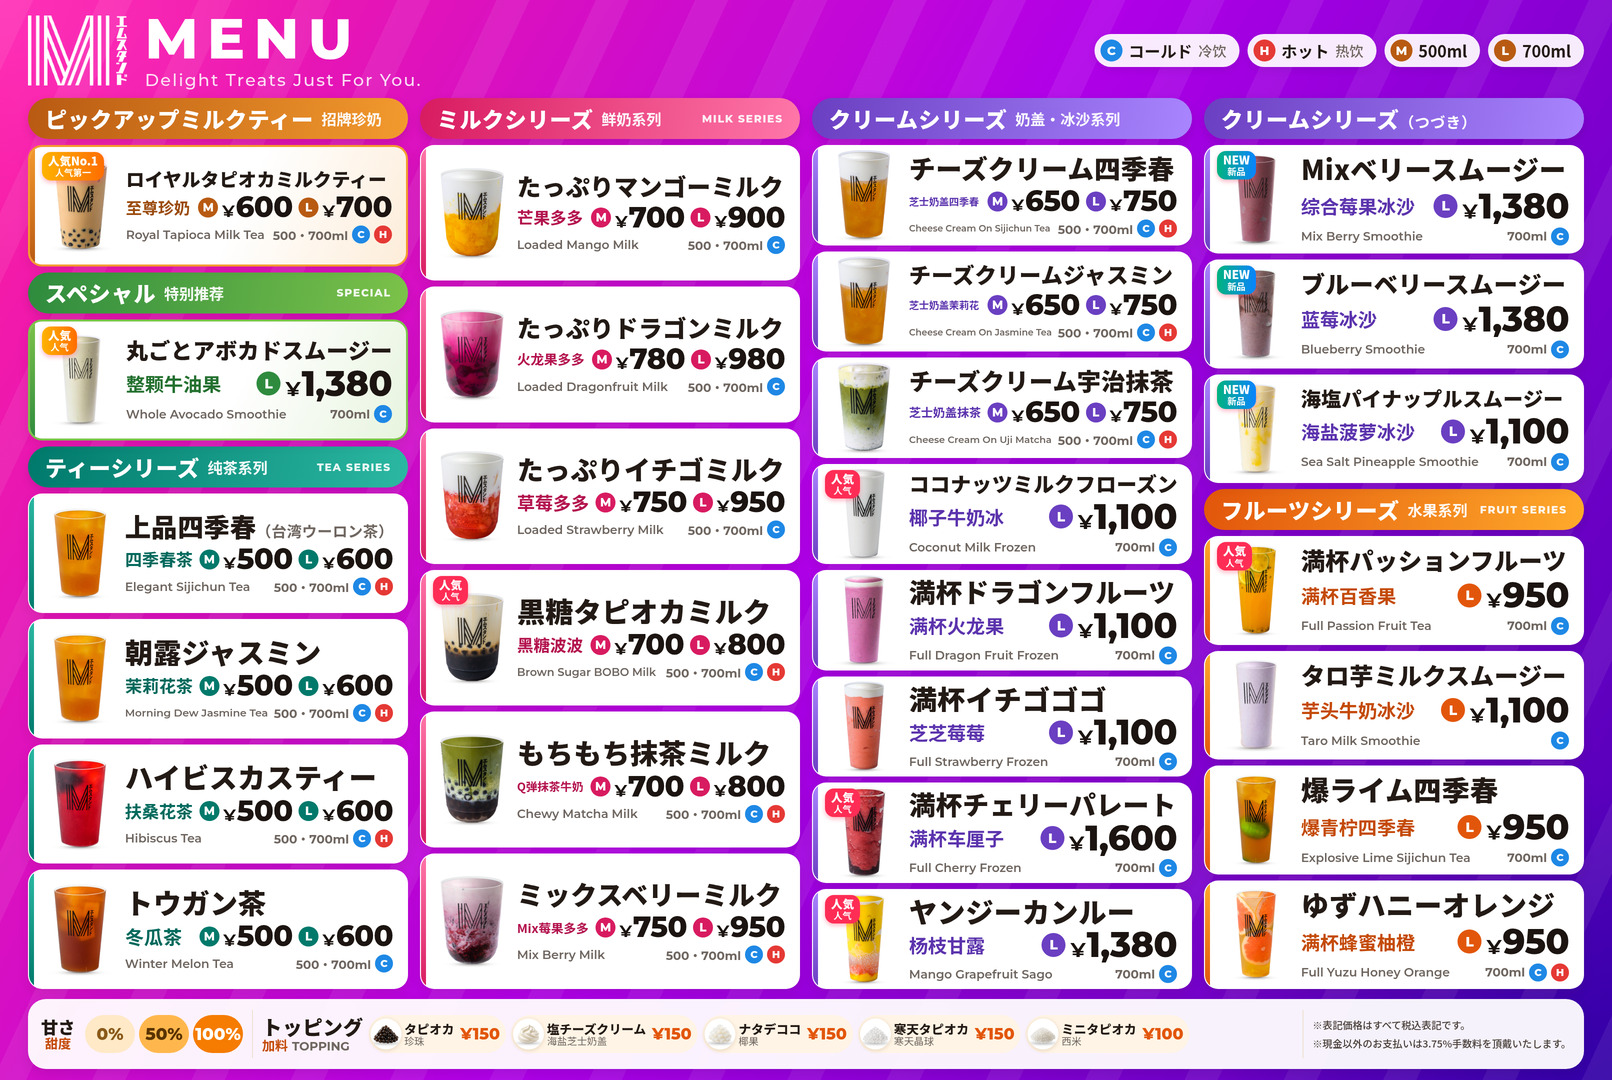
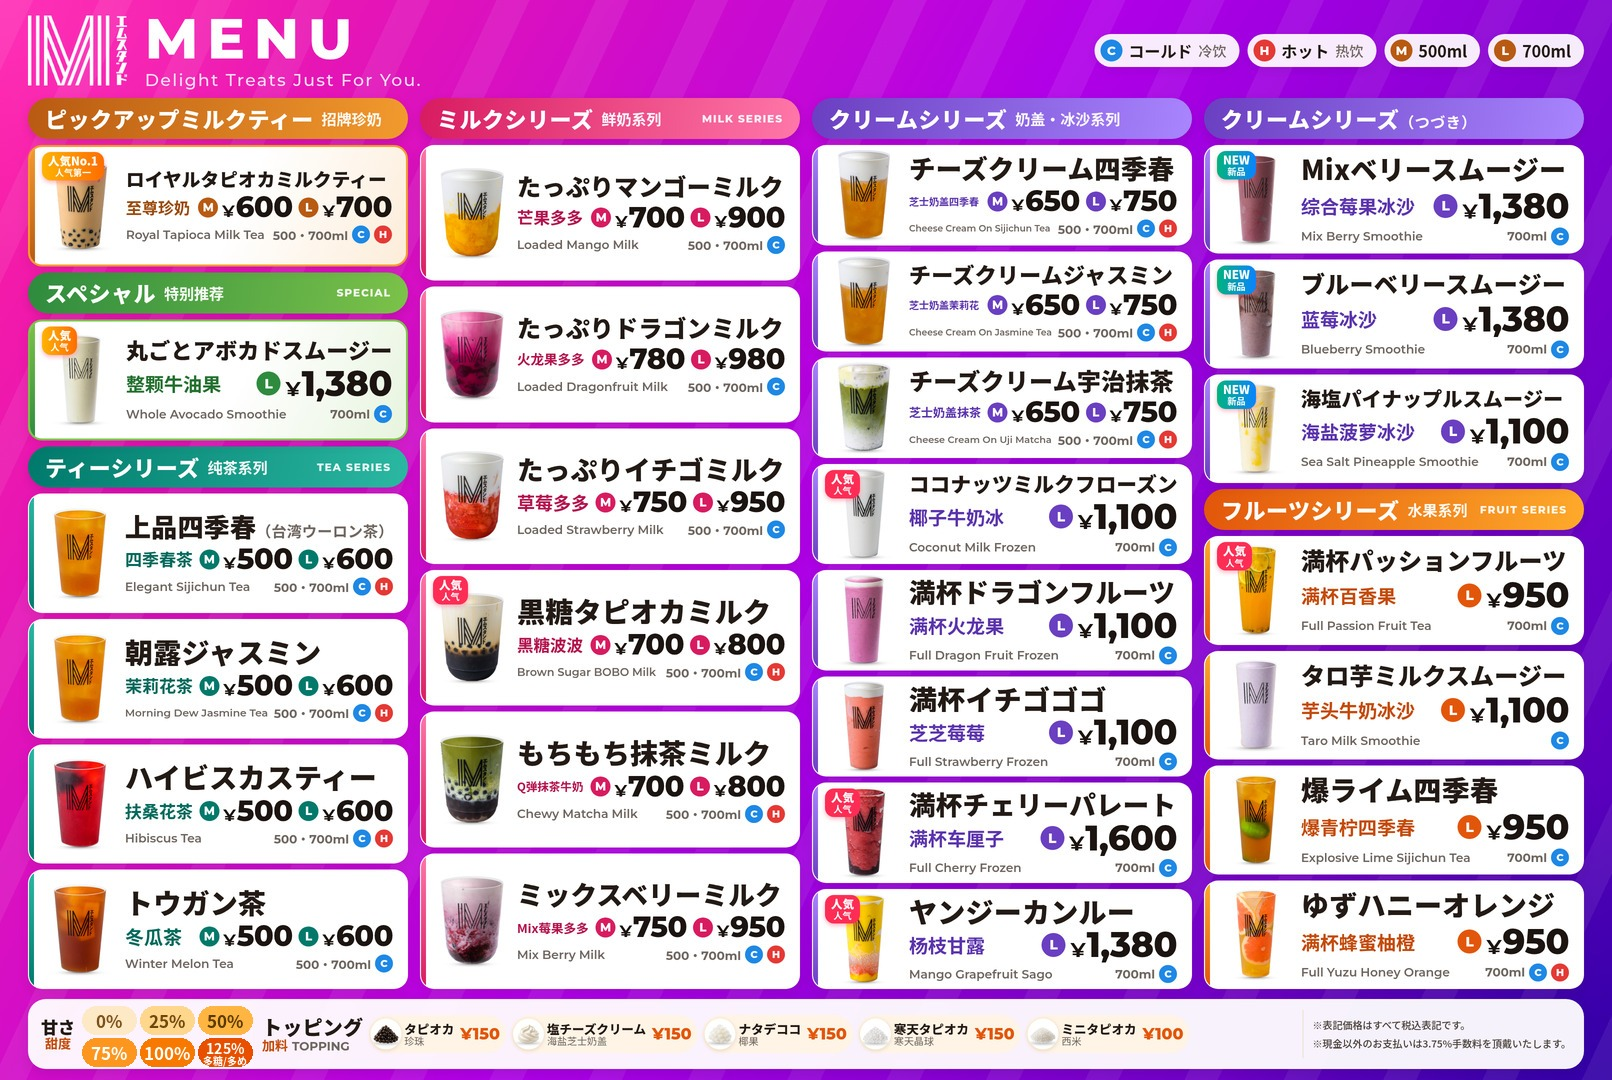
critter intro v6 (2-3 products/trip, 3-line intros, pop/hop/sparkles; critter.js v=6) + menu sweetness 0-125% in 25% steps (menu.jpg v=7)

diff --git a/public/critter.js b/public/critter.js
@@ -73,34 +73,34 @@ window.MSCritter={svg:svg,keys:A.concat(['bat']),pose:function(r,key,f){var o=HI
 
 /* ---- product intro: walk to a menu card and say something ---- */
 var PI=[
-[/^ロイヤルタピオカミルクティー/,'至尊珍奶','人气No.1，珍珠Q弹～'],
-[/アボカドスムージー/,'整颗牛油果','牛油果每天现开的哦～'],
-[/^上品四季春/,'四季春茶','清香回甘，超解腻～'],
-[/朝露ジャスミン/,'茉莉花茶','一口满满茉莉花香～'],
-[/ハイビスカス/,'扶桑花茶','酸酸甜甜，颜色超美～'],
-[/トウガン/,'冬瓜茶','古早味冬瓜茶，消暑～'],
-[/マンゴーミルク/,'芒果多多','满满芒果果肉哦～'],
-[/ドラゴンミルク/,'火龙果多多','粉粉的火龙果超好拍～'],
-[/いちごミルク|イチゴミルク/,'草莓多多','草莓配鲜奶，甜甜的～'],
-[/黒糖/,'黑糖波波','黑糖珍珠，浓浓焦香～'],
-[/抹茶ミルク/,'抹茶牛奶','Q弹球配抹茶，好好嚼～'],
-[/Mixベリーミルク|ミックスベリーミルク/,'莓莓多多','好几种莓果一起喝～'],
-[/チーズクリーム四季春/,'芝士四季春','咸香奶盖配清茶～'],
-[/チーズクリームジャスミン/,'芝士茉莉','奶盖绵绵配茉莉～'],
-[/チーズクリーム宇治抹茶/,'芝士抹茶','宇治抹茶+奶盖，绝配～'],
-[/ココナッツ/,'椰子牛奶冰','椰香满满，冰冰凉凉～'],
-[/満杯ドラゴンフルーツ/,'满杯火龙果','满满一杯火龙果～'],
-[/満杯いちごスムージー|イチゴゴゴ/,'芝芝莓莓','满杯草莓，酸甜刚好～'],
-[/チェリー/,'满杯车厘子','车厘子控必点哦～'],
-[/ヤンジー|楊枝甘露|杨枝甘露/,'杨枝甘露','芒果西柚，港式经典～'],
-[/Mixベリースムージー/,'综合莓果冰沙','新品！莓果冰沙～'],
-[/ブルーベリー/,'蓝莓冰沙','新品！蓝莓酸酸甜甜～'],
-[/パイナップル/,'海盐菠萝冰沙','新品！海盐配菠萝～'],
-[/パッション/,'满杯百香果','百香果香到冒泡～'],
-[/タロ芋/,'芋头牛奶冰沙','芋泥控快来～'],
-[/爆ライム/,'爆青柠四季春','超清爽，解腻必喝～'],
-[/柚子|ゆず/,'满杯蜂蜜柚橙','柚子蜂蜜，冷热都好喝～']];
-var GEN='这杯也超好喝哦～';
+[/^ロイヤルタピオカミルクティー/,'至尊珍奶','店里人气No.1','珍珠Q弹有嚼劲','奶茶香浓不腻'],
+[/アボカドスムージー/,'整颗牛油果','用整颗牛油果做','口感绵密顺滑','喝完超满足～'],
+[/^上品四季春/,'四季春茶','清新的乌龙茶香','入口回甘','配炸鸡超解腻～'],
+[/朝露ジャスミン/,'茉莉花茶','一口满满茉莉香','清爽不苦涩','想清淡就选它～'],
+[/ハイビスカス/,'扶桑花茶','酸酸甜甜的花茶','颜色红红超好看','拍照很出片哦～'],
+[/トウガン/,'冬瓜茶','古早味冬瓜茶','甜甜的很顺口','小时候的味道～'],
+[/マンゴーミルク/,'芒果多多','满满芒果果肉','配上香浓牛奶','芒果控必点～'],
+[/ドラゴンミルク/,'火龙果多多','火龙果配牛奶','粉粉的颜色','超好拍超可爱～'],
+[/いちごミルク|イチゴミルク/,'草莓多多','草莓配牛奶','酸酸甜甜','少女心满满～'],
+[/黒糖/,'黑糖波波','黑糖珍珠','浓浓焦糖香','搅一搅再喝哦～'],
+[/抹茶ミルク/,'抹茶牛奶','抹茶配牛奶','微苦又香甜','抹茶控快来～'],
+[/Mixベリーミルク|ミックスベリーミルク/,'莓莓多多','好几种莓果','配上牛奶','酸甜又顺滑～'],
+[/チーズクリーム四季春/,'芝士四季春','绵密芝士奶盖','配清香四季春','先喝一口奶盖～'],
+[/チーズクリームジャスミン/,'芝士茉莉','绵绵芝士奶盖','配茉莉花香','清爽又浓郁～'],
+[/チーズクリーム宇治抹茶/,'芝士抹茶','宇治抹茶','加咸香芝士奶盖','抹茶控绝配～'],
+[/ココナッツ/,'椰子牛奶冰','椰香满满','冰冰凉凉','一口好清爽～'],
+[/満杯ドラゴンフルーツ/,'满杯火龙果','满满一杯火龙果','颜色超漂亮','清爽解渴～'],
+[/満杯いちごスムージー|イチゴゴゴ/,'芝芝莓莓','满杯草莓','酸甜刚刚好','草莓控必点～'],
+[/チェリー/,'满杯车厘子','车厘子满满','果香浓郁','车厘子控冲～'],
+[/ヤンジー|楊枝甘露|杨枝甘露/,'杨枝甘露','芒果加西柚','港式经典甜品','一口好幸福～'],
+[/Mixベリースムージー/,'综合莓果冰沙','新品上市！','多种莓果打成冰沙','酸甜冰爽～'],
+[/ブルーベリー/,'蓝莓冰沙','新品上市！','蓝莓酸酸甜甜','冰沙口感超爽～'],
+[/パイナップル/,'海盐菠萝冰沙','新品上市！','海盐配菠萝','咸甜好特别～'],
+[/パッション/,'满杯百香果','百香果香到冒泡','酸甜开胃','超级清爽～'],
+[/タロ芋/,'芋头牛奶冰沙','绵绵的芋头','配上牛奶','芋泥控快来～'],
+[/爆ライム/,'爆青柠四季春','满满青柠','配四季春茶','清爽解腻～'],
+[/柚子|ゆず/,'满杯蜂蜜柚橙','柚子加橙子','蜂蜜甜甜的','冷热都能点哦～']];
+var GEN=['这杯也超好喝','欢迎来尝尝哦～'];
 function cards(){var R=[],i,j,mp=window.SOMAP,m=document.getElementById('menu');if(!m)m=document.querySelector('img[src*="menu"]');
  if(!m)return R;var mr=m.getBoundingClientRect();if(mr.width<50)return R;
  if(!mp||!mp.length){mp=[];for(i=0;i<PI.length;i++)mp.push({re:PI[i][0],x:5+(i%6)*15,y:10+Math.floor(i/6)*20,w:12,h:16})}
@@ -109,19 +109,23 @@ function cards(){var R=[],i,j,mp=window.SOMAP,m=document.getElementById('menu');
  for(j=0;j<mp.length;j++){var b=mp[j];if(so.indexOf(b.x+'%|'+b.y+'%')>=0)continue;
   var t=null;for(i=0;i<PI.length;i++)if(b.re&&PI[i][0].source===b.re.source){t=PI[i];break}
   if(!t)for(i=0;i<PI.length;i++)if(b.re&&b.re.test&&b.re.test(PI[i][1])){t=PI[i];break}
-  R.push({x:mr.left+mr.width*b.x/100,y:mr.top+mr.height*b.y/100,w:mr.width*b.w/100,h:mr.height*b.h/100,n:t?t[1]:'',s:t?t[2]:GEN,mw:mr.width})}
+  R.push({x:mr.left+mr.width*b.x/100,y:mr.top+mr.height*b.y/100,w:mr.width*b.w/100,h:mr.height*b.h/100,n:t?t[1]:'',s:t?t.slice(2):GEN,mw:mr.width})}
  return R}
 window.MSCritterCards=cards;
 if(/[?&]critter=off/.test(qs))return;
 var st=document.createElement('style');
 st.textContent='#critter{position:fixed;left:0;top:0;z-index:9000;pointer-events:none;will-change:transform;-webkit-transform:translate3d(-99px,0,0);transform:translate3d(-99px,0,0)}'+
-'#cbub{position:fixed;z-index:9001;pointer-events:none;background:#fff;color:#5b2a86;border:4px solid #ff6fae;border-radius:999px;padding:.12em .55em;font-family:sans-serif;font-weight:700;line-height:1.25;white-space:nowrap;box-shadow:0 6px 18px rgba(0,0,0,.35);opacity:0;-webkit-transition:opacity .3s;transition:opacity .3s}#cbub b{color:#ff3d8b;margin-right:.3em}#cbub:after{content:"";position:absolute;left:28px;border:10px solid transparent}#cbub.up:after{top:100%;border-top-color:#ff6fae}#cbub.dn:after{bottom:100%;border-bottom-color:#ff6fae}'+
+'#cbub{position:fixed;z-index:9001;pointer-events:none;background:#fff;color:#5b2a86;border:4px solid #ff6fae;border-radius:.8em;padding:.25em .6em .3em;font-family:sans-serif;font-weight:700;line-height:1.3;white-space:nowrap;box-shadow:0 6px 18px rgba(0,0,0,.35);opacity:0;-webkit-transform-origin:30px 100%;transform-origin:30px 100%;-webkit-transition:opacity .4s;transition:opacity .4s}#cbub.dn{-webkit-transform-origin:30px 0;transform-origin:30px 0}#cbub b{display:block;color:#ff3d8b;font-size:1.08em}#cbub span{display:block;opacity:0}#cbub span.on{opacity:1;-webkit-animation:cln .45s ease-out;animation:cln .45s ease-out}#cbub.pop{-webkit-animation:cpop .5s cubic-bezier(.3,1.6,.5,1);animation:cpop .5s cubic-bezier(.3,1.6,.5,1)}#cbub:after{content:"";position:absolute;left:28px;border:10px solid transparent}#cbub.up:after{top:100%;border-top-color:#ff6fae}#cbub.dn:after{bottom:100%;border-bottom-color:#ff6fae}'+
+'@-webkit-keyframes cpop{0%{-webkit-transform:scale(.2);opacity:0}60%{-webkit-transform:scale(1.12);opacity:1}100%{-webkit-transform:scale(1)}}@keyframes cpop{0%{transform:scale(.2);opacity:0}60%{transform:scale(1.12);opacity:1}100%{transform:scale(1)}}'+
+'@-webkit-keyframes cln{0%{opacity:0;-webkit-transform:translate3d(0,.5em,0)}100%{opacity:1;-webkit-transform:translate3d(0,0,0)}}@keyframes cln{0%{opacity:0;transform:translate3d(0,.5em,0)}100%{opacity:1;transform:translate3d(0,0,0)}}'+
+'#cspk{position:fixed;left:0;top:0;width:1px;height:1px;z-index:9002;pointer-events:none;display:none}#cspk i{position:absolute;display:block;opacity:0;-webkit-animation:cflt 1.8s ease-out infinite;animation:cflt 1.8s ease-out infinite}'+
+'@-webkit-keyframes cflt{0%{opacity:0;-webkit-transform:translate3d(0,0,0) scale(.4)}20%{opacity:1;-webkit-transform:translate3d(0,-10px,0) scale(1.1)}100%{opacity:0;-webkit-transform:translate3d(0,-60px,0) scale(.8)}}@keyframes cflt{0%{opacity:0;transform:translate3d(0,0,0) scale(.4)}20%{opacity:1;transform:translate3d(0,-10px,0) scale(1.1)}100%{opacity:0;transform:translate3d(0,-60px,0) scale(.8)}}'+
 '#critter i{display:block;width:64px;height:64px;-webkit-transform-origin:50% 95%;transform-origin:50% 95%;will-change:transform}#critter svg{display:block;overflow:visible}';
 document.getElementsByTagName('head')[0].appendChild(st);
 var w=document.createElement('div');w.id='critter';w.innerHTML='<i>'+svg(k,hw)+'</i>';
 function start(){document.body.appendChild(w);var ie=w.firstChild,sv=ie.firstChild;
 var S=64,fz=/[?&]critterpos=([\d.]+)/.exec(location.search),seg=0,sp=0,pause=0,last=0,ph=0,
-mode=0,tg=null,ox=0,oy=0,cx=0,cy=0,bx=0,by0=0,stay=0,nextI=(/[?&]critterintro=1/.test(location.search)?1.5:3+Math.random()*2),trip=0,ci=Math.floor(Math.random()*99),bub=document.createElement('div'),
+mode=0,tg=null,ox=0,oy=0,cx=0,cy=0,bx=0,by0=0,stay=0,nextI=(/[?&]critterintro=1/.test(location.search)?1.5:2+Math.random()*2),trip=0,q=[],li=0,talk=0,spk=document.createElement('div'),ci=Math.floor(Math.random()*99),bub=document.createElement('div'),
 raf=window.requestAnimationFrame||window.webkitRequestAnimationFrame||function(f){return setTimeout(function(){f(+new Date())},33)};
 function tick(t){try{var W=window.innerWidth-S,H=window.innerHeight-S,L=[W,H,W,H],now=+new Date(),dt=last?Math.max(0,Math.min(now-last,100))/1000:0;last=now;
  var len=L[seg],v=len>=Math.max(W,H)?90:62;
@@ -129,25 +133,32 @@ function tick(t){try{var W=window.innerWidth-S,H=window.innerHeight-S,L=[W,H,W,H
  if(pause>0){pause-=dt}else{sp+=v*dt;ph+=dt/0.34;if(sp>=len){sp=0;seg=(seg+1)%4;pause=0.3;len=L[seg]}}
  var x,y,r,p=sp,fl=-1; /* art faces left: scaleX(-1) faces travel dir, then rotate so feet touch the edge */
  if(seg===0){x=p;y=H;r=0}else if(seg===1){x=W;y=H-p;r=-90}else if(seg===2){x=W-p;y=0;r=180}else{x=0;y=p;r=90}
- if(mode===0&&!fz){nextI-=dt;if(nextI<=0){var cs=cards();if(cs.length){var c=cs[ci%cs.length];ci+=3+Math.floor(Math.random()*5);tg=c;mode=1;ox=x;oy=y;cx=x;cy=y;bx=c.x+c.w*0.02;by0=c.y+c.h-S-2}else nextI=5}}
- if(mode===1){trip+=dt;if(trip>15){mode=3;trip=0}}else trip=0;
+ if(mode===0&&!fz){nextI-=dt;if(nextI<=0){var cs=cards();if(cs.length){q=[];var nq=Math.min(cs.length,2+Math.floor(Math.random()*2)),u,c;for(u=0;u<nq;u++){c=cs[ci%cs.length];ci+=2+Math.floor(Math.random()*4);if(q.indexOf(c)<0)q.push(c)}c=q.shift();tg=c;mode=1;ox=x;oy=y;cx=x;cy=y;bx=c.x+c.w*0.02;by0=c.y+c.h-S-2}else nextI=5}}
+ if(mode===1){trip+=dt;if(trip>15){mode=3;trip=0;q=[]}}else trip=0;
  if(mode){var gx=mode===3?ox:bx,gy=mode===3?oy:by0,ddx=gx-cx,ddy=gy-cy,dd=Math.sqrt(ddx*ddx+ddy*ddy),st2=170*dt;
-  if(mode===2){stay-=dt;pause=0.01;if(stay<=0){mode=3;bub.style.opacity='0'}}
-  else if(dd<=st2||dd<1){cx=gx;cy=gy;if(mode===1){mode=2;stay=4.2;showBub(tg)}else{mode=0;nextI=25+Math.random()*15}}
+  if(mode===2){stay-=dt;talk+=dt;pause=0;ph+=dt/0.5;var nl=Math.min(tg.s.length,1+Math.floor(talk/1.7)),sps=bub.getElementsByTagName('span');while(li<nl&&li<sps.length){sps[li].className='on';li++}if(stay<=0){bub.style.opacity='0';spk.style.display='none';var nc=null,cs2=cards(),u2,z;while(q.length&&!nc){z=q.shift();for(u2=0;u2<cs2.length;u2++)if(cs2[u2].n===z.n)nc=cs2[u2]}if(nc){tg=nc;mode=1;bx=nc.x+nc.w*0.02;by0=nc.y+nc.h-S-2}else mode=3}}
+  else if(dd<=st2||dd<1){cx=gx;cy=gy;if(mode===1){mode=2;talk=0;li=0;stay=1.7*tg.s.length+1.6;showBub(tg)}else{mode=0;nextI=40+Math.random()*20}}
   else{cx+=ddx/dd*st2;cy+=ddy/dd*st2;fl=ddx<0?1:-1;sp-=v*dt}
   if(mode){x=cx;y=cy;r=0;if(mode===2)fl=1}}
  var tr='translate3d('+x.toFixed(1)+'px,'+y.toFixed(1)+'px,0) rotate('+r+'deg) scaleX('+fl+')';
  w.style.webkitTransform=tr;w.style.transform=tr;
  var f=ph-Math.floor(ph),by=0,sx=1,sy=1,lean=0;
- if(pause>0){var kk=pause/0.3;sx=1+0.05*kk;sy=1-0.05*kk;lean=3*kk}
+ if(mode===2){var hp=Math.abs(Math.sin(Math.PI*talk*1.6));by=-14*hp;sy=1+0.06*hp;sx=1-0.04*hp;lean=8*Math.sin(Math.PI*talk*2.4)}
+ else if(pause>0){var kk=pause/0.3;sx=1+0.05*kk;sy=1-0.05*kk;lean=3*kk}
  else{var h=Math.abs(Math.sin(2*Math.PI*f));by=-4*h;sy=1+0.03*h;sx=1-0.02*h;lean=-4}
- if(k==='bat'){by=-6+3*Math.sin(2*Math.PI*f);lean=0;sx=sy=1}
+ if(k==='bat'&&mode!==2){by=-6+3*Math.sin(2*Math.PI*f);lean=0;sx=sy=1}
  var it='translate3d(0,'+by.toFixed(1)+'px,0) rotate('+lean.toFixed(1)+'deg) scale('+sx.toFixed(3)+','+sy.toFixed(3)+')';
  ie.style.webkitTransform=it;ie.style.transform=it;
  pose(sv,k,f,pause>0)}catch(x){}raf(tick)}
-function showBub(c){var fs=Math.max(22,Math.round(c.mw/58));bub.style.fontSize=fs+'px';
- bub.innerHTML=(c.n?'<b>'+c.n+'</b>':'')+c.s;var bh=bub.offsetHeight,bw=bub.offsetWidth,lx=Math.max(4,Math.min(c.x,window.innerWidth-bw-4)),ty=c.y-bh-6;
- if(ty<4){ty=c.y+c.h+14;bub.className='dn'}else bub.className='up';bub.style.left=lx+'px';bub.style.top=ty+'px';bub.style.opacity='1'}
+function showBub(c){var fs=Math.max(22,Math.round(c.mw/60)),i,h='';bub.style.fontSize=fs+'px';
+ for(i=0;i<c.s.length;i++)h+='<span>'+c.s[i]+'</span>';bub.className='';bub.innerHTML=(c.n?'<b>'+c.n+'</b>':'')+h;var bh=bub.offsetHeight,bw=bub.offsetWidth,lx=Math.max(4,Math.min(c.x,window.innerWidth-bw-4)),ty=c.y-bh-6,cl='up';
+ if(ty<4){ty=c.y+c.h+14;cl='dn'}bub.style.left=lx+'px';bub.style.top=ty+'px';void bub.offsetWidth;bub.className=cl+' pop';bub.style.opacity='1';
+ var sx2=c.x+c.w*0.75,sy2=c.y+c.h*0.6;spk.style.left=sx2+'px';spk.style.top=sy2+'px';spk.style.display='block'}
+var HT='<svg width="26" height="24" viewBox="0 0 26 24"><path d="M13 23 C-6 10 3-4 13 6 C23-4 32 10 13 23Z" fill="#ff5c9a" stroke="#fff" stroke-width="2"/></svg>',
+ SK='<svg width="24" height="24" viewBox="0 0 24 24"><path d="M12 0 L15 9 L24 12 L15 15 L12 24 L9 15 L0 12 L9 9Z" fill="#ffd84a" stroke="#fff" stroke-width="1.5"/></svg>',
+ SP=[[0,0,HT,0],[30,-20,SK,.45],[-26,-30,SK,.9],[14,-44,HT,1.3],[-8,8,SK,1.1]],sh='',si;
+for(si=0;si<SP.length;si++)sh+='<i style="left:'+SP[si][0]+'px;top:'+SP[si][1]+'px;-webkit-animation-delay:'+SP[si][3]+'s;animation-delay:'+SP[si][3]+'s">'+SP[si][2]+'</i>';
+spk.id='cspk';spk.innerHTML=sh;document.body.appendChild(spk);
 bub.id='cbub';document.body.appendChild(bub);raf(tick)}
 if(document.body)start();else document.addEventListener('DOMContentLoaded',start);
 }catch(x){}})();

diff --git a/public/screen.html b/public/screen.html
@@ -94,8 +94,8 @@ html,body{margin:0;padding:0;width:100%;height:100%;overflow:hidden;background-c
 #hs .c .s{font-size:.8em;overflow:hidden;text-overflow:ellipsis}
 #hs .sw{display:inline-block;width:1em;height:1em;border-radius:50%;border:2px solid #fff;vertical-align:-.15em;margin-right:.3em}
 #hs .k{display:inline-block;width:1em;color:#FFE600;font-weight:900}
-</style><script src="/kcal.js?v=2"></script><script src="/critter.js?v=5"></script></head><body>
-<img id="menu" src="/menu.jpg?v=6" alt="menu"><div id="kcmask"></div><div id="somask"></div><div id="hdr"><div id="hs"></div></div>
+</style><script src="/kcal.js?v=2"></script><script src="/critter.js?v=6"></script></head><body>
+<img id="menu" src="/menu.jpg?v=7" alt="menu"><div id="kcmask"></div><div id="somask"></div><div id="hdr"><div id="hs"></div></div>
 <div id="q" class="qrA">
  <div class="t">お呼び出し番号<span>请取餐</span></div>
  <div id="deco"></div>
@@ -120,7 +120,7 @@ function esc(s){return String(s).replace(/&/g,'&amp;').replace(/</g,'&lt;').repl
 function fit(){try{var m=$('menu'),W=Math.floor(window.innerWidth*0.84),H=window.innerHeight,a=1612/1080,w=W,h=Math.round(W/a);
  if(h>H){h=H;w=Math.round(H*a)}
  m.style.width=w+'px';m.style.height=h+'px';m.style.left=Math.floor((W-w)/2)+'px';m.style.top=Math.floor((H-h)/2)+'px';
- var dpr=window.devicePixelRatio||1,want=(w*dpr>1700)?'/menu@2x.jpg?v=6':'/menu.jpg?v=6';
+ var dpr=window.devicePixelRatio||1,want=(w*dpr>1700)?'/menu@2x.jpg?v=6':'/menu.jpg?v=7';
  try{var hd=$('hdr');hd.style.left=m.style.left;hd.style.top=m.style.top;hd.style.width=w+'px';hd.style.height=h+'px';hd.style.fontSize=Math.max(11,Math.round(w/96))+'px'}catch(e){}
  try{var k=$('somask');k.style.left=m.style.left;k.style.top=m.style.top;k.style.width=w+'px';k.style.height=h+'px';var bs=k.getElementsByTagName('b');for(var i=0;i<bs.length;i++)bs[i].style.fontSize=Math.max(12,Math.round(w/60))+'px'}catch(e){}
  try{var kk=$('kcmask');kk.style.left=m.style.left;kk.style.top=m.style.top;kk.style.width=w+'px';kk.style.height=h+'px';kk.style.fontSize=(w*9/1612).toFixed(2)+'px'}catch(e){}
